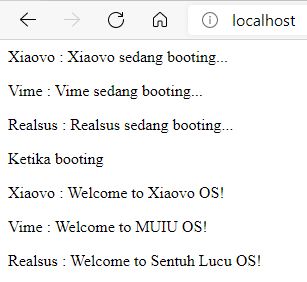
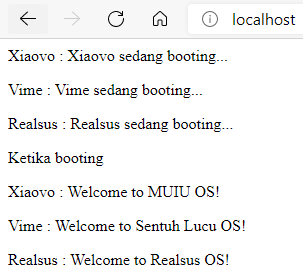
Updated Interface.md

diff --git a/Object-oriented-PHP-2/interface.md b/Object-oriented-PHP-2/interface.md
@@ -6,9 +6,11 @@
 
 Terkadang, pada pembuatan sebuah program atau sistem menggunakan orientasi objek, terdapat banyak class yang membutuhkan satu atau lebih method yang sebenarnya adalah sama, namun perlakuannya berbeda pada setiap class.
 
-Contohnya terdapat 3 class yang merepresentasikan merk smartphone, yaitu {Xiaovo, Realsus, Vime}. Ketiga class tersebut memiliki berbagai method yang sama, seperti contohnya ketiga smartphone tersebut dapat dinyalakan atau memiliki tombol power on. Kita beri nama methodnya turn_on. Namun, walapun ketiga smartphone tersebut sama-sama memilki method turn_on, setiap brand pasti menunjukkan sesuatu yang berbeda ketika turn_on. Entah itu logo bertuliskan brandnya, atau logo robot, ataupun logo jamur.
+Contohnya terdapat 3 class yang merepresentasikan merk smartphone, yaitu {Xiaovo, Realsus, Vime}. Ketiga class tersebut memiliki berbagai method yang sama, seperti contohnya ketiga smartphone tersebut dapat dinyalakan atau memiliki tombol power on. Namun, walapun ketiga smartphone tersebut sama-sama memilki method tersebut, setiap brand pasti menunjukkan sesuatu yang berbeda ketika tombol power on ditekan dan smarthpone dinyalakan, entah yang ditampilkan logo bertuliskan brandnya, atau logo robot, ataupun logo jamur.
 
-Lalu contoh lain mungkin ketika ketiga smartphone tersebut telah menyala, pastinya smartphone tersebut akan menampilkan sebuah tampilan dari Sistem Operasinya. Nah walaupun ketiganya memiliki sistem operasi, namun ketiga smartphone tersebut memiliki tampilan yang berbeda pada setiap sistem operasinya. Katakanlah ada yang menggunakan Realvo OS, Sentuhlucu OS, ataupun MUIU OS.
+Lalu contoh lain mungkin ketika ketiga smartphone tersebut telah menyala, pastinya smartphone tersebut akan menampilkan sebuah tampilan dari Sistem Operasinya. Nah walaupun ketiganya memiliki sistem operasi, namun ketiga smartphone tersebut memiliki tampilan yang berbeda pada setiap sistem operasinya. Katakanlah ada yang menggunakan Realsus OS, Sentuhlucu OS, ataupun MUIU OS.
+
+Tentunya semua smartphone, baik itu Xiaovo, Realsus ataupun Vime harus dapat dinyalakan, maka mau tidak mau pada smarthone tersebut harus mengandung method atau fungsi power on. Lalu semua smartphone juga tentunya harus memiliki User Interface untuk memudahkan pengguna dalam menjalankan Sistem Operasinya, walaupun mungkin pada setiap OS atau ROM pada smartphone berbeda-beda tampilannya. Hal inilah yang mendasari penggunaan Interface.
 
 ## Konsep-Konsep
 
@@ -22,86 +24,117 @@ Isi dari interface ini adalah sebuah method kosong yang bisa berisi parameter at
 kita Buat interface mirip dengan sebuah class, hanya saja tidak perlu menuliskan class, melainkan langsung menuliskan interface dilanjutkan dengan nama interfacenya.
 ```php
 <?php
-interface smartphone
-{
-   //...isi dari interface smartphone
-}
+interface PowerOn{
+	//isi dari interface PowerOn
+ }
+
+interface OperatingSystem{
+	//Isi dari interface OperatingSystem
+ }
 ?>
 ```
 
+### Langkah Kedua
 Lalu kita isi interface dengan sebuah method kosong. Method boleh memiliki parameter ataupun tidak.
 ```php
 <?php
-interface smartphone{
-   public function turn_on();
-   public function show_ui();
-}
+interface PowerOn{
+	public function turn_on();
+ }
+
+interface OperatingSystem{
+	public function show_ui();
+ }
 ?>
 ```
 
+### Langkah Ketiga
 Untuk mengimplementasikan interface tersebut dalam suatu class, kita menggunakan keyword implements.
 ```php
 <?php
-interface smartpone{
-   public function turn_on();
-   public function show_ui();
-}
-  
-class Xiaovo implements smartphone{
-   //... isi dari class Xiaovo
-}
-  
-class Realsus implements smartphone{
-   //... isi dari class Realsus
-}
+interface PowerOn{
+	public function turn_on();
+ }
 
-class Vime implements smartphone{
-   //... isi dari class Vime
-}
+interface OperatingSystem{
+	public function show_ui();
+ }
+   
+ class Xiaovo implements PowerOn, OperatingSystem{
+	//... Isi class Xiaovo
+ }
+   
+ class Realsus implements PowerOn, OperatingSystem{
+	//... Isi class Xiaovo
+ }
+ 
+ class Vime implements PowerOn, OperatingSystem{
+	//... Isi class Xiaovo
+ }
 ?>
 ```
 Dengan begini, maka masing-masing class Xiaovo, Realsus, maupun Vime harus memuat function turn_on() dan show_ui().
 
+### Langkah Keempat
 Lalu untuk mengimplementasikan function tersebut kedalam masing-masing class, penulisannya seperti kita menuliskan fungsi biasanya.
 ```php
 <?php
-interface smartphone{
-   public function turn_on();
-   public function show_ui();
-}
-  
-class Xiaovo implements smartphone{
-   public function turn_on() {
-     return "<Gambar Kodok>Xiaovo sedang booting..."
-   }
+interface PowerOn{
+	public function turn_on();
+ }
 
-   public function show_ui(); {
-     return "Welcome to Xiaovo OS!";
-   }
-}
-  
-class Realsus implements smartphone{
-   public function turn_on() {
-     return "<Tulisan SnSV>Realsus sedang booting..."
-   }
-
-   public function show_ui(); {
-     return "Welcome to Sentuh Lucu OS!";
-   }
-}
-
-class Vime implements smartphone{
-   public function turn_on() {
-     return "<Gambar Robot>Vime sedang booting..."
-   }
-
-   public function show_ui(); {
-     return "Welcome to MUIU OS!";
-   }
-}
+interface OperatingSystem{
+	public function show_ui();
+ }
+   
+ class Xiaovo implements PowerOn, OperatingSystem{
+	public function turn_on() {
+	  return "<Gambar Kodok>Xiaovo sedang booting...";
+	}
+ 
+	public function show_ui() {
+	  return "Welcome to MUIU OS!";
+	}
+ }
+   
+ class Realsus implements PowerOn, OperatingSystem{
+	public function turn_on() {
+	  return "<Tulisan SnSV>Realsus sedang booting...";
+	}
+ 
+	public function show_ui() {
+	  return "Welcome to Realsus OS!";
+	}
+ }
+ 
+ class Vime implements PowerOn, OperatingSystem{
+	public function turn_on() {
+	  return "<Gambar Robot>Vime sedang booting...";
+	}
+	
+	public function show_ui() {
+	  return "Welcome to Sentuh Lucu OS!";
+	}
+ }
 ?>
 ```
+### Langkah Kelima
+Buat Objek untuk setiap class, lalu cek hasil dari method `turn_on()` dan `show_ui` pada tiap class menggunakan echo di dalam syntax paragraf html
+```php
+$Xiaovo = new Xiaovo();
+$Vime = new Vime();
+$Realsus = new Realsus();
 
+echo "<p>Xiaovo : ".$Xiaovo->turn_on()."</p>";
+echo "<p>Vime : ".$Vime->turn_on()."</p>";
+echo "<p>Realsus : ".$Realsus->turn_on()."</p>";
+
+echo "<p>Ketika booting"."</p>";
+
+echo "<p>Xiaovo : ".$Xiaovo->show_ui()."</p>";
+echo "<p>Vime : ".$Vime->show_ui()."</p>";
+echo "<p>Realsus : ".$Realsus->show_ui()."</p>";
+``` 
 ## Hasil
 
 Berikut adalah output yang ditampilkan pada browser.
